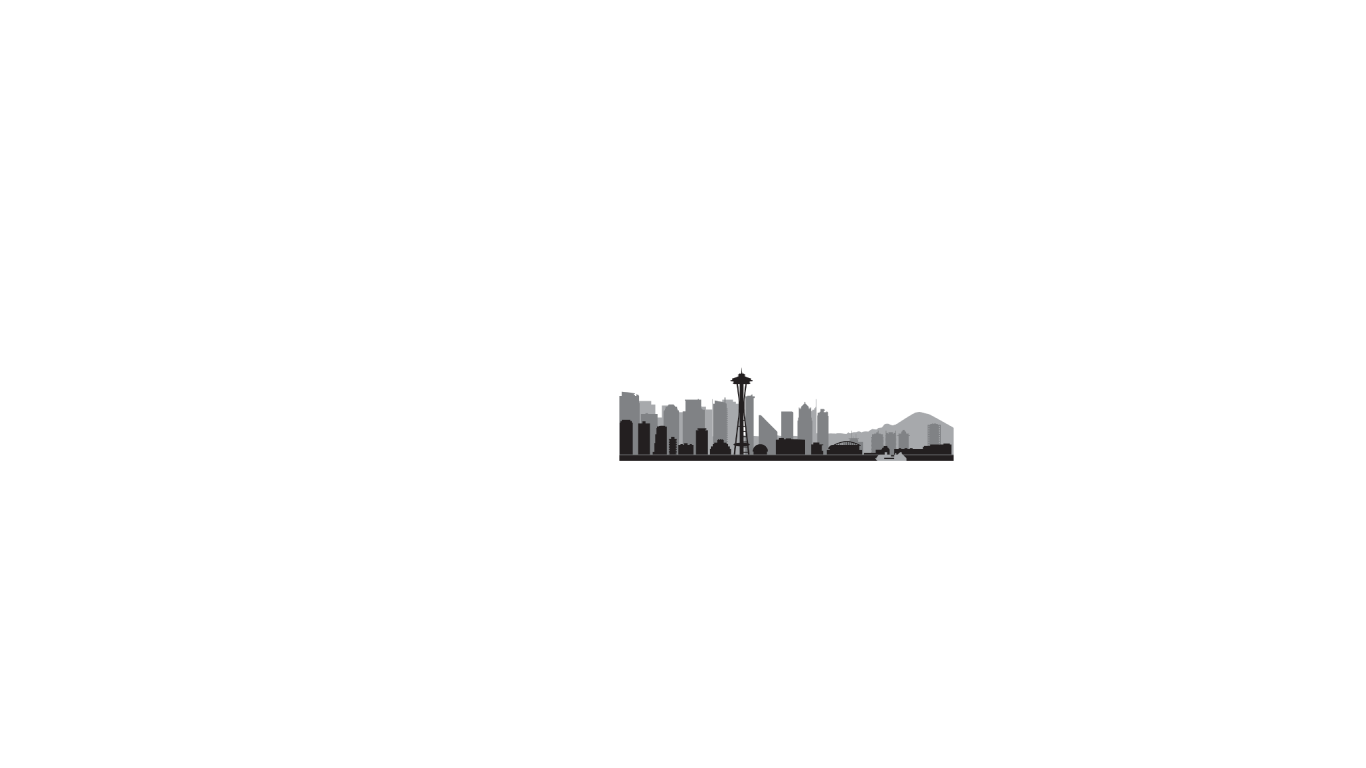
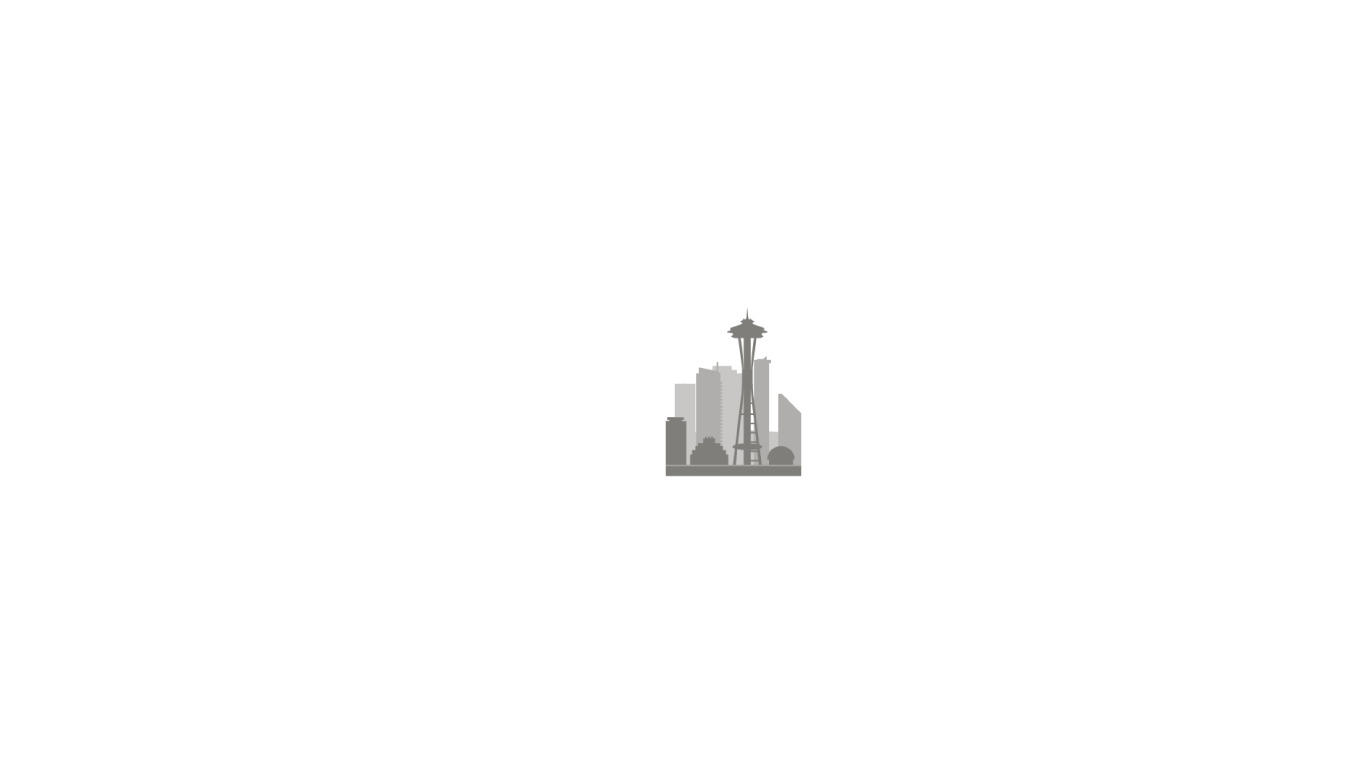
Changed some graphics

Changed region(s): [[0.4305, 0.4062, 0.7072, 0.625]]

diff --git a/index.html b/index.html
@@ -12,27 +12,27 @@
 <body>
     
     <header>
-        <h2 class="logo">Dylan Ables</h2>
-        <nav class="navigation">
-            <a href="#" class="active">Home</a>
-            <a href="#About">About</a>
-            <a href="#Projects">Projects</a>
-            <a href="#Contact">Contact</a>
+        <nav class="navbar">
+            <h2 class="logo navbar-item">Dylan Ables</h2>
+            <a href="#" class="navbar-item active">Home</a>
+            <a href="#About" class="navbar-item">About</a>
+            <a href="#Projects" class="navbar-item">Projects</a>
+            <a href="#Contact" class="navbar-item">Contact</a>
         </nav>
     </header>
 
     <section class="parallax">
-        <img src="images/background.png" id="background" />
+        <!-- <img src="images/background.png" id="background" /> -->
         <img src="images/seattle.png" id="seattle" />
         <img src="images/clouds-right.png" id="clouds-right" />
-        <img src="images/mountain6.png" id="mountain6" />
+        <img src="images/moon.png" id="mountain6" />
         <img src="images/clouds-left.png" id="clouds-left" />
         <img src="images/mountain5.png" id="mountain5" />
         <img src="images/mountain4.png" id="mountain4" />
         <img src="images/mountain3.png" id="mountain3" />
         <img src="images/mountain2.png" id="mountain2" />
-        <img src="images/mountain1.png" id="mountain1" />
         <h2 id="text">Hi, I'm Dylan.</h2>
+        <img src="images/mountain1.png" id="mountain1" />
         <img src="images/trees.png" id="trees" />
     </section>
 

diff --git a/style.css b/style.css
@@ -14,7 +14,7 @@ body {
 }
 
 header {
-    position: absolute;
+    position: fixed;
     top: 0;
     left: 0;
     width: 100%;
@@ -25,6 +25,11 @@ header {
     z-index: 100;
 }
 
+.navbar .scrolled {
+    background-color: #fff !important;
+    transition: background-color 200ms linear;
+}
+
 .logo {
     font-size: 2em;
     color: #fff;
@@ -32,7 +37,7 @@ header {
     margin-right: 225px;
 }
 
-.navigation a {
+.navbar a {
     text-decoration: none;
     color: #fff;
     padding: 6px 15px;
@@ -41,8 +46,8 @@ header {
     font-weight: 600;
 }
 
-.navigation a:hover,
-.navigation a.active {
+.navbar a:hover,
+.navbar a.active {
     background-color: #fff;
     color: #254F69;
 }
@@ -52,7 +57,8 @@ header {
     display: flex;
     justify-content: center;
     align-items: center;
-    height: 100vh;
+    height: 110vh;
+    background-color: rgb(19, 28, 52);
 }
 
 #text {

diff --git a/script.js b/script.js
@@ -3,6 +3,9 @@ let mountain6 = document.getElementById('mountain6');
 let cloudsLeft = document.getElementById('clouds-left');
 let cloudsRight = document.getElementById('clouds-right');
 
+const [red, green, blue] = [19, 28, 52]
+const bg = document.querySelector('.parallax')
+
 window.addEventListener('scroll', () => {
     let value = window.scrollY;
 
@@ -10,4 +13,11 @@ window.addEventListener('scroll', () => {
     mountain6.style.top = value * 2.5 + 'px';
     cloudsLeft.style.left = value * -1.5 + 'px';
     cloudsRight.style.left = value * 1.5 + 'px';
+
+    const y = 1 + (window.scrollY || window.pageYOffset) / 100
+    const [r, g, b] = [red*y, green*y, blue*y].map(Math.round)
+    bg.style.backgroundColor = `rgb(${r}, ${g}, ${b})`
+
+    var $nav = $(".navbar");
+    $nav.toggleClass('scrolled', $(this).scrollTop() > $nav.height());
 })
